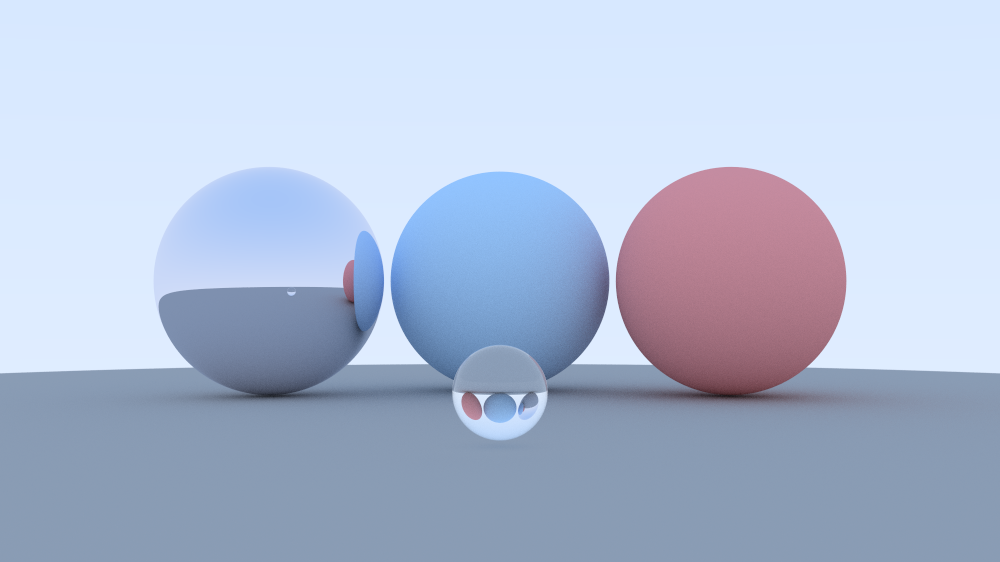
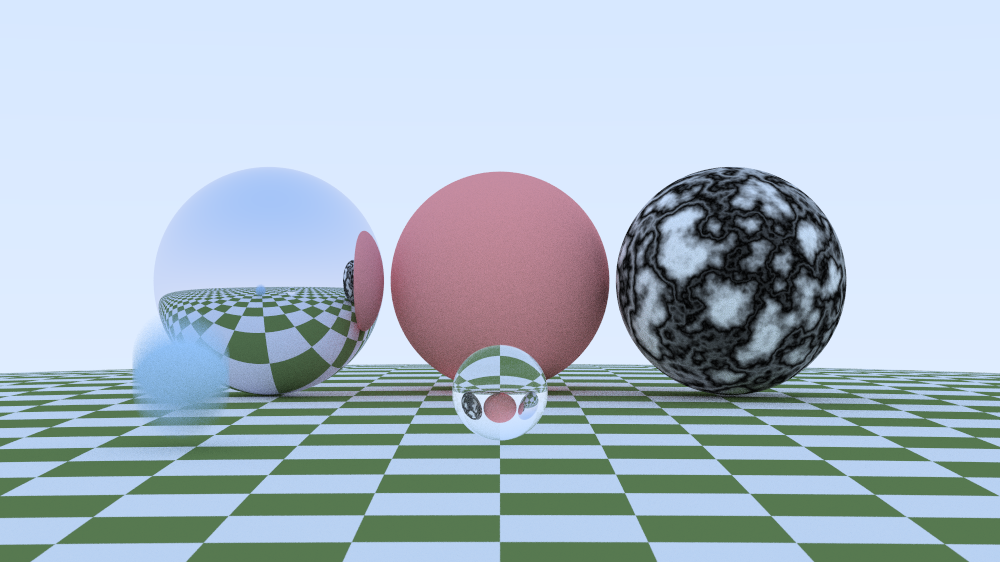
New render

diff --git a/ray_tracer/main.cpp b/ray_tracer/main.cpp
@@ -22,13 +22,14 @@ void simple_world() {
     HittableList world{};
 
     auto checker_texture = std::make_shared<CheckerTexture>(0.32, Color(0.2, 0.3, 0.1), Color(0.9, 0.9, 0.9));
+    auto perlin_texture = std::make_shared<NoiseTexture>(4);
 
     auto material_ground = std::make_shared<Lambertian>(checker_texture);
     auto material_left = std::make_shared<Metal>(Color(0.84, 0.85, 0.94), 0.0);
-    auto material_center = std::make_shared<Lambertian>(Color(0.55, 0.78, 1.0));
-    auto material_right = std::make_shared<Lambertian>(Color(1.0, 0.4, 0.4));
+    auto material_center = std::make_shared<Lambertian>(Color(1.0, 0.4, 0.4));
+    auto material_right = std::make_shared<Lambertian>(perlin_texture);
     auto material_front = std::make_shared<Dielectric>(1.5);
-    auto material_left_front = std::make_shared<Lambertian>(Color(1.0, 0.4, 0.4));
+    auto material_left_front = std::make_shared<Lambertian>(Color(0.55, 0.78, 1.0));
 
     world.add(std::make_shared<Sphere>(Point3(0.0, -100.5, -1.0), 100.0, material_ground));
     world.add(std::make_shared<Sphere>(Point3(-1.01, 0.0, -1.0), 0.5, material_left));
@@ -37,13 +38,13 @@ void simple_world() {
     
     Point3 centre_front = Point3(0.0, -0.35, 1.0);
     Point3 centre_left_front = Point3(-1.0, -0.35, 1.0);
-    world.add(std::make_shared<Sphere>(centre_front, centre_front + Vec3(0, 0.1, 0), 0.15, material_front));
+    world.add(std::make_shared<Sphere>(centre_front, centre_front, 0.15, material_front));
     world.add(std::make_shared<Sphere>(centre_left_front, centre_left_front + Vec3(0, 0.12, 0), 0.15, material_left_front));
 
     world = HittableList(std::make_shared<BVHNode>(world));
 
     // Camera
-    Camera camera{ 16.0/9.0, 400, 50, 50, 20, Point3(0, 0, 6), Point3(0, 0, 0), Vec3(0, 1, 0), 0.05, 6 };
+    Camera camera{ 16.0/9.0, 1000, 100, 50, 20, Point3(0, 0, 6), Point3(0, 0, 0), Vec3(0, 1, 0), 0.05, 6 };
     camera.render(world);
 }
 
@@ -94,10 +95,10 @@ void quads()
 }
 
 int main() {
-    //simple_world();
+    simple_world();
     //two_spheres();
     //two_perlin_spheres();
-    quads();
+    //quads();
 
     return 0;
 }

diff --git a/README.md b/README.md
@@ -4,7 +4,12 @@
 This is a ray tracer I learned based off of Peter Shirley's Ray Tracer series. This code is only for educational purposes. 
 
 ## Features
-The ray tracer supports anti-aliasing and diffuse, metal, and dielectric materials.
+- Anti-aliasing
+- Diffuse, metal, and dielectric materials
+- Moving objects and motion blur
+- Bounding Volume Hierarchy
+- UV texture mapping
+- Perlin Noise textures
 
 ## Render
 ![alt text](https://github.com/Dandoko/ray_tracer/blob/master/images/render.png?raw=true)
